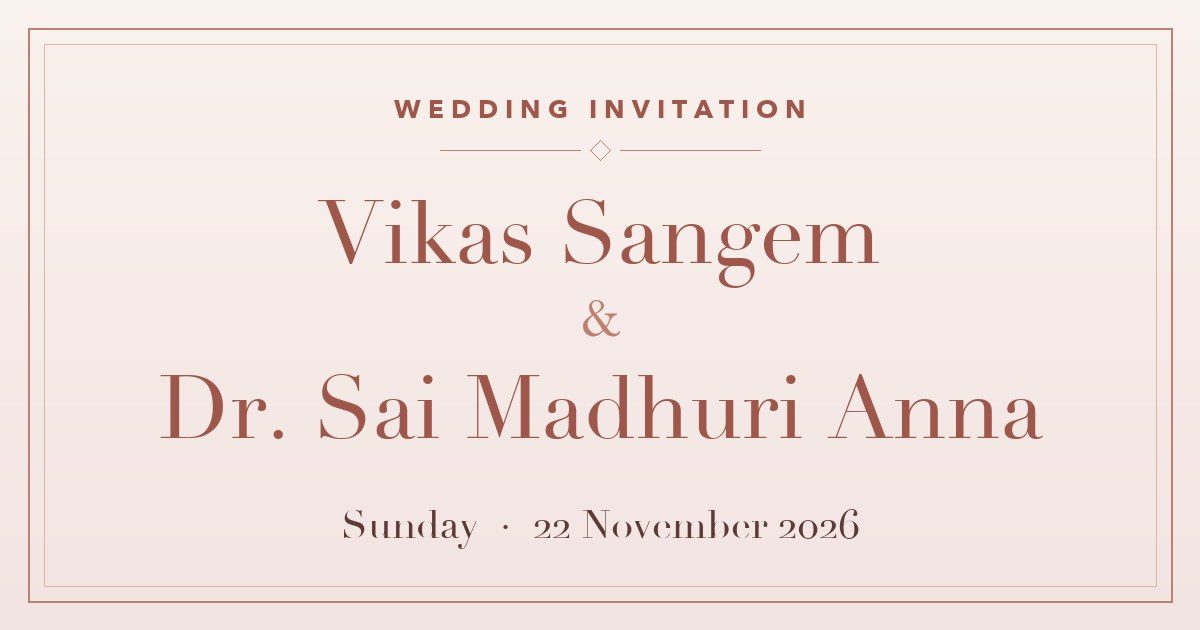
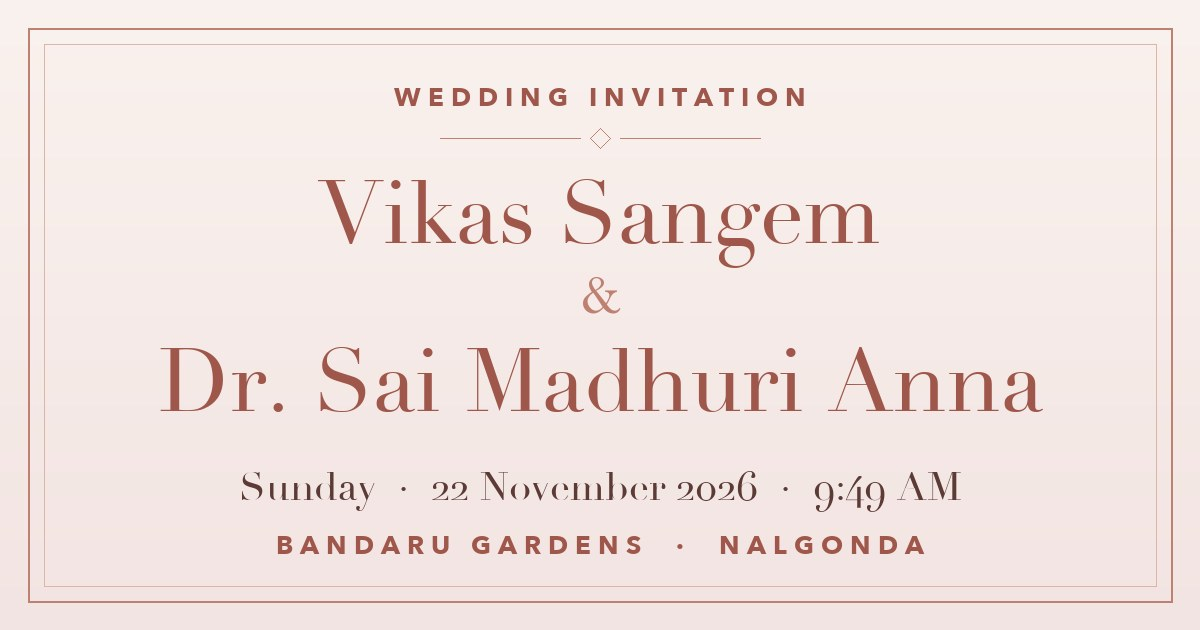
Add muhurtham time and venue; remove reception

diff --git a/index.html b/index.html
@@ -202,7 +202,7 @@ header nav a:hover { color: var(--rose-deep); }
 }
 .timeline .eyebrow { color: var(--rose-deep); font-size: .66rem; }
 .timeline .val { font-family: var(--font-display); font-size: 1.55rem; color: var(--ink); margin-top: .15rem; line-height: 1.3; }
-.timeline .tbc { color: var(--muted); font-style: italic; }
+.timeline .map-btn { margin-top: .9rem; min-height: 48px; padding: .7rem 1.5rem; font-size: .66rem; }
 .card {
   border: 1px solid oklch(70% .08 32 / .45); box-shadow: var(--shadow); border-radius: 4px;
   padding: 2.25rem 1.4rem; text-align: center; display: grid; gap: 1.1rem; justify-items: center; background: var(--ivory);
@@ -295,7 +295,7 @@ footer .eyebrow { font-size: .6rem; opacity: .7; }
         </div>
       </div>
       <svg class="ornament flip"><use href="#orn"/></svg>
-      <p class="eyebrow hero-date">Sunday · 22 November 2026</p>
+      <p class="eyebrow hero-date">Sunday · 22 November 2026<br>9:49 AM · Nalgonda</p>
     </div>
   </section>
 
@@ -334,9 +334,9 @@ footer .eyebrow { font-size: .6rem; opacity: .7; }
       <div class="details-grid">
         <ol class="timeline">
           <li><p class="eyebrow">Date</p><p class="val">Sunday, 22 November 2026</p></li>
-          <li><p class="eyebrow">Muhurtham</p><p class="val tbc">Time to be announced</p></li>
-          <li><p class="eyebrow">Wedding venue</p><p class="val tbc">Venue to be announced</p></li>
-          <li><p class="eyebrow">Reception</p><p class="val tbc">Details to follow</p></li>
+          <li><p class="eyebrow">Muhurtham</p><p class="val">9:49 AM</p></li>
+          <li><p class="eyebrow">Wedding venue</p><p class="val">Bandaru Gardens, Hyderabad Road, Nalgonda</p>
+            <a class="btn dark eyebrow map-btn" href="https://www.google.com/maps/search/?api=1&amp;query=Bandaru%20Gardens%2C%20Hyderabad%20Road%2C%20Nalgonda" target="_blank" rel="noopener"><svg viewBox="0 0 24 24" width="18" height="18" fill="none" stroke="currentColor" stroke-width="2" stroke-linecap="round" stroke-linejoin="round" aria-hidden="true"><path d="M20 10c0 6-8 12-8 12s-8-6-8-12a8 8 0 0 1 16 0Z"/><circle cx="12" cy="10" r="3"/></svg>Get Directions</a></li>
         </ol>
         <div class="card">
           <p class="telugu">ఆహ్వానం</p>
@@ -363,7 +363,7 @@ footer .eyebrow { font-size: .6rem; opacity: .7; }
         <div class="unit"><span class="n rg" id="cd-s">--</span><span class="eyebrow">Secs</span></div>
       </div>
       <p id="count-done" hidden>The auspicious day has arrived. Thank you for your blessings!</p>
-      <p class="eyebrow count-note">Until Sunday · 22 November 2026</p>
+      <p class="eyebrow count-note">Until the muhurtham · 22 November 2026 · 9:49 AM IST</p>
     </div>
   </section>
 
@@ -372,7 +372,7 @@ footer .eyebrow { font-size: .6rem; opacity: .7; }
       <p class="eyebrow">Your presence is our blessing</p>
       <svg class="ornament"><use href="#orn"/></svg>
       <h2 class="names rg-light">Vikas &amp; Sai Madhuri</h2>
-      <p class="eyebrow">22 November 2026 · Sunday</p>
+      <p class="eyebrow">22 November 2026 · Sunday · Bandaru Gardens, Nalgonda</p>
       <p class="thanks">Thank you for your love and blessings. We can't wait to celebrate with you.</p>
       <p class="families rg-light">Sangem &amp; Anna families</p>
       <a href="#invitation" class="btn eyebrow">Back to the top</a>
@@ -385,8 +385,8 @@ footer .eyebrow { font-size: .6rem; opacity: .7; }
 (function () {
   "use strict";
   var $ = function (id) { return document.getElementById(id); };
-  // Sunday 22 Nov 2026, 00:00 IST (UTC+5:30). Update when the muhurtham time is fixed.
-  var TARGET = Date.UTC(2026, 10, 21, 18, 30, 0);
+  // Muhurtham: Sunday 22 Nov 2026, 9:49 AM IST (UTC+5:30) = 04:19 UTC
+  var TARGET = Date.UTC(2026, 10, 22, 4, 19, 0);
 
   /* ---------- Generated music: veena melody in raga Mohanam over a tanpura drone ---------- */
   var Music = (function () {
@@ -531,7 +531,7 @@ footer .eyebrow { font-size: .6rem; opacity: .7; }
     seal.classList.add("open");
     seal.setAttribute("aria-expanded", "true");
     seal.setAttribute("aria-label", "Wedding date: Sunday, 22 November 2026");
-    $("seal-status").textContent = "Sunday · 22 November 2026";
+    $("seal-status").textContent = "Sunday · 22 November 2026 · 9:49 AM";
     if (navigator.vibrate) try { navigator.vibrate(30); } catch (e) {}
   });
 
